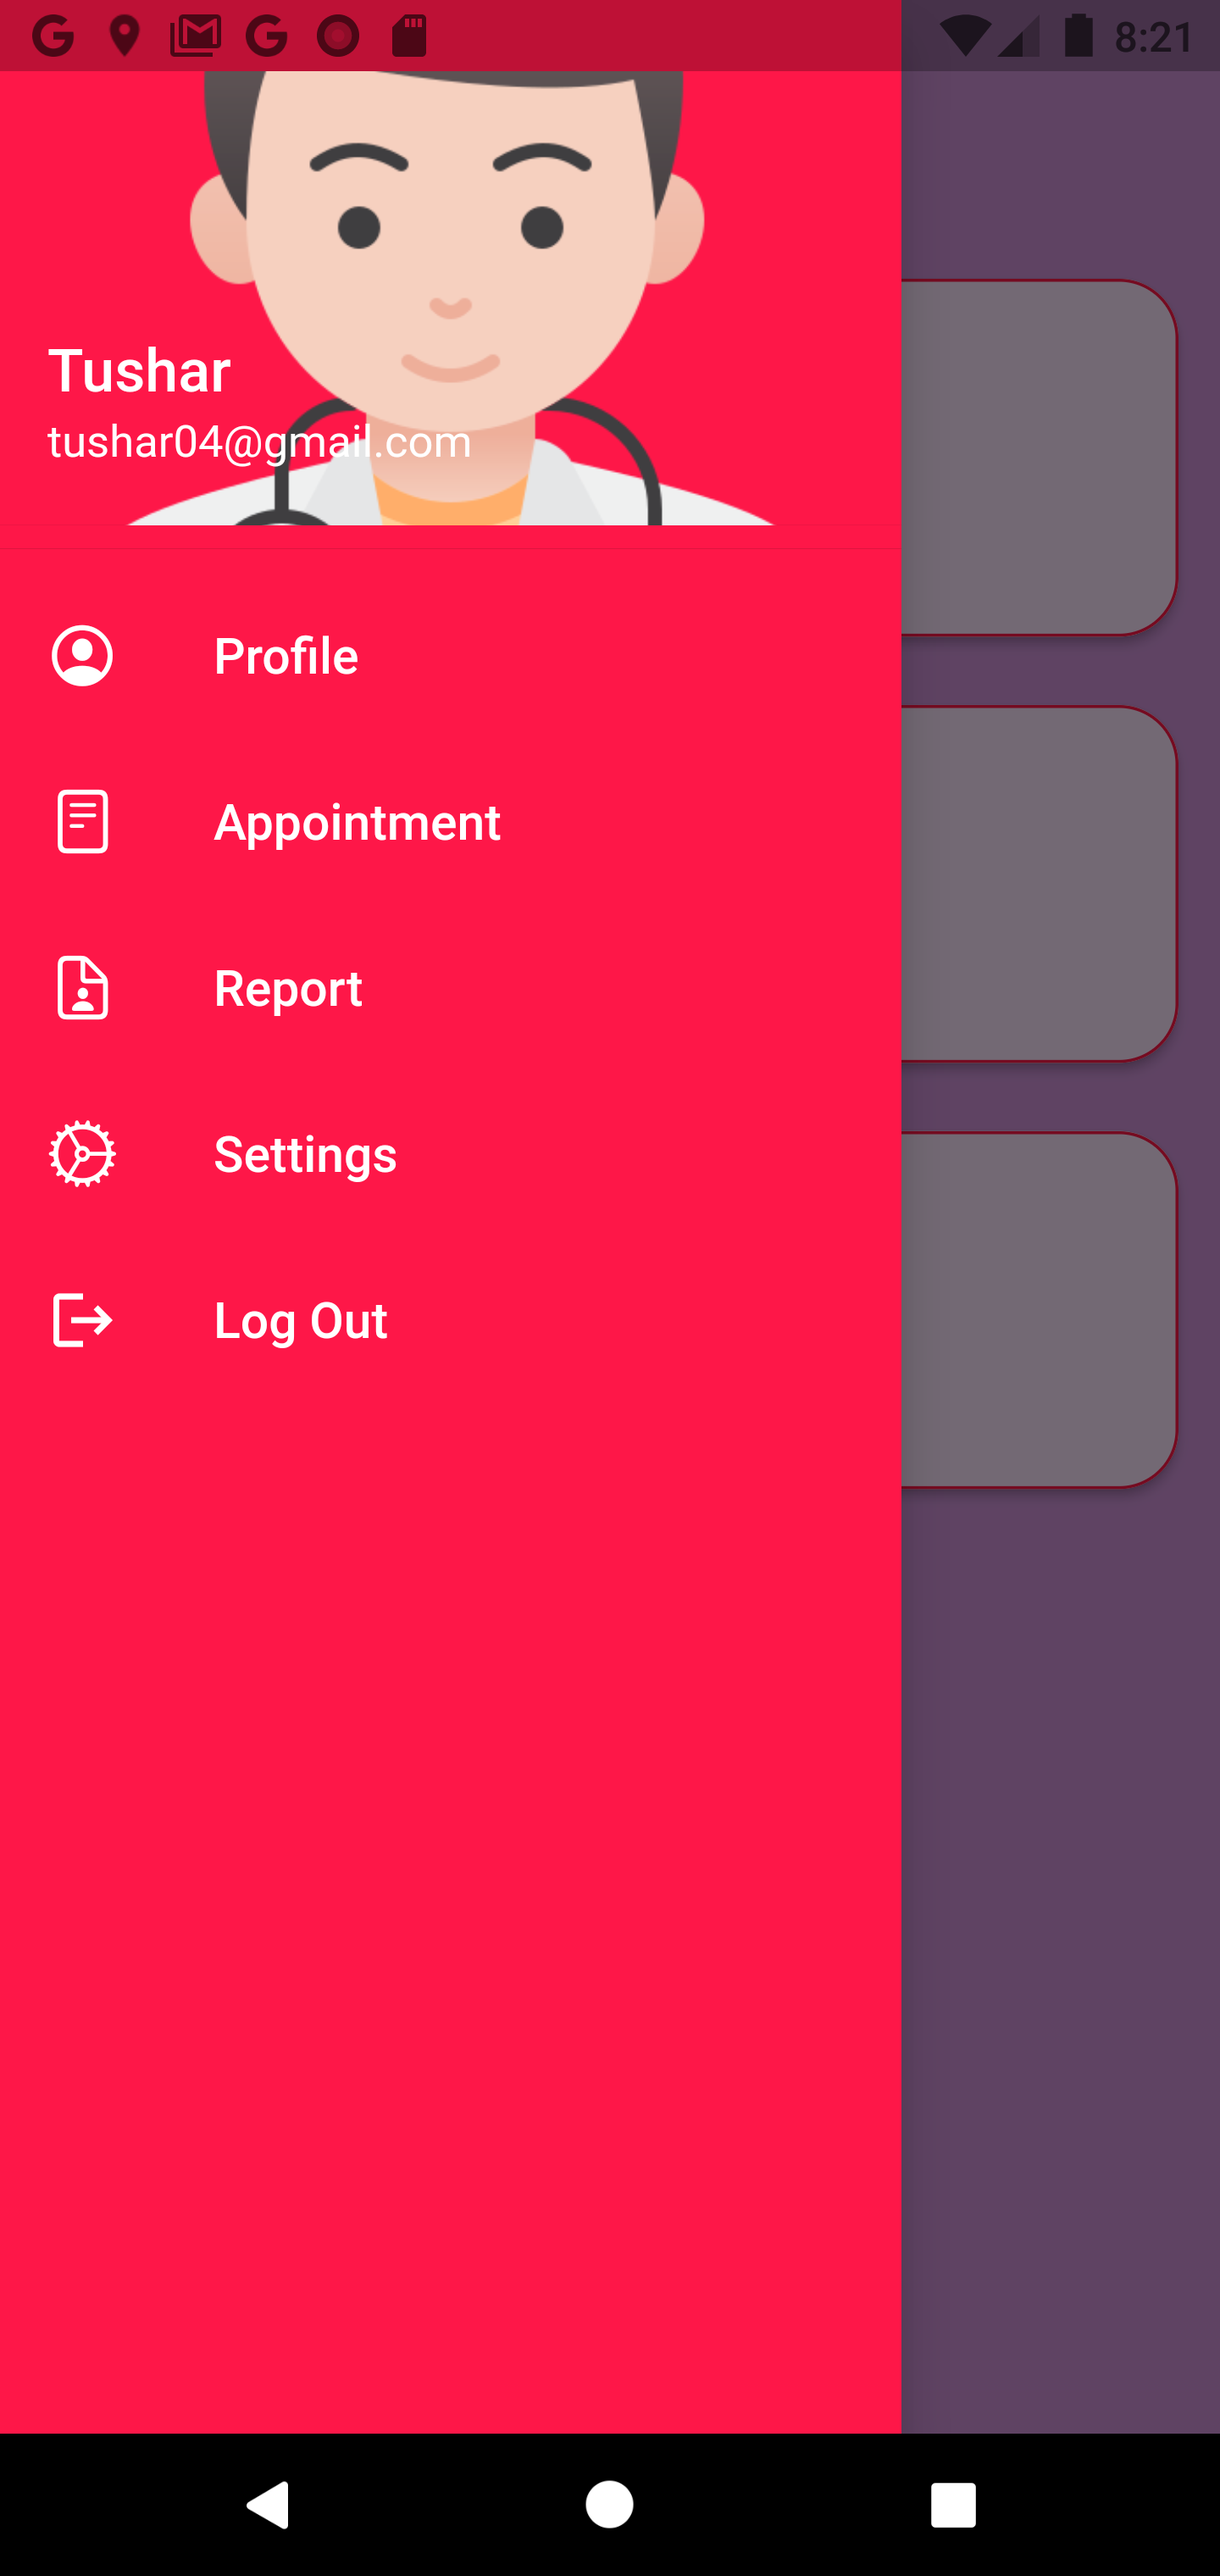
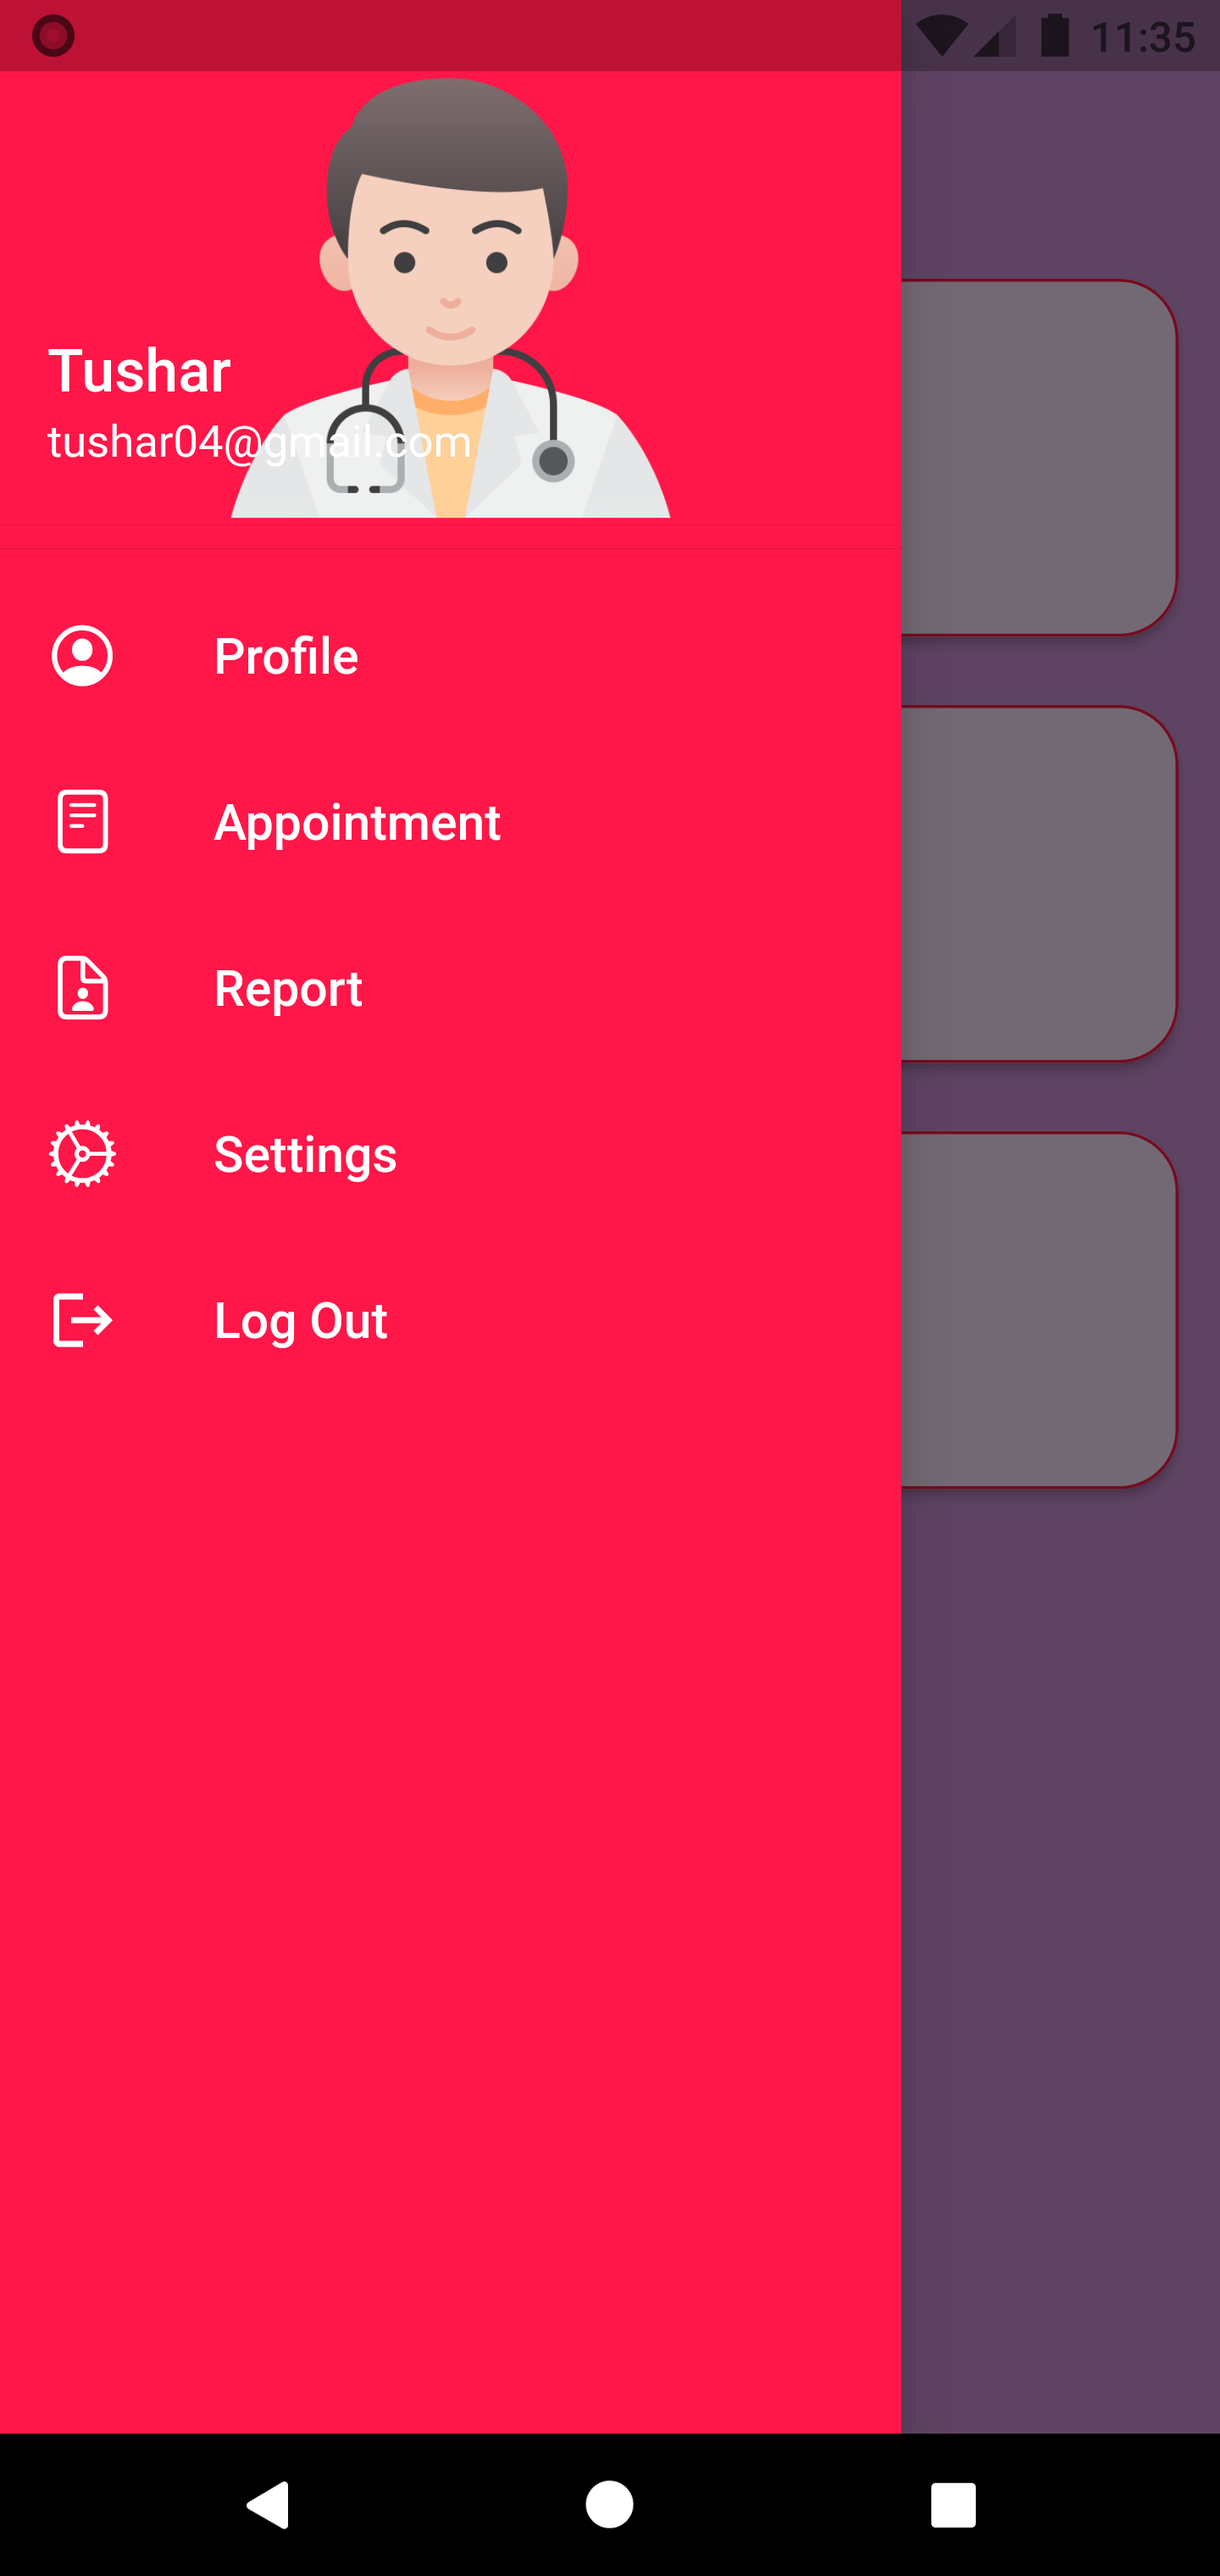
Screenshots

Changed region(s): [[0.0938, 0.0, 0.625, 0.2188], [0.75, 0.0, 0.9375, 0.0312], [0.0312, 0.0, 0.0625, 0.0312]]

diff --git a/lib/widgets/drawer.dart b/lib/widgets/drawer.dart
@@ -221,7 +221,7 @@ class _MyDrawerState extends State<MyDrawer> {
                         decoration: BoxDecoration(color: Color.fromRGBO(254, 23, 72, 1),
                             image: DecorationImage(
                                 image: AssetImage("Assets/images/doctor.png"),
-                                fit: BoxFit.cover),
+                                fit: BoxFit.fitHeight),
                         ),
                         accountName: Text(
                           snapshot.data!['name'],
@@ -231,11 +231,14 @@ class _MyDrawerState extends State<MyDrawer> {
                           snapshot.data!['email'],
                           style: TextStyle(fontSize: 15, color: Colors.white),
                         ),
+                        // currentAccountPictureSize: Size.square(75),
                         // currentAccountPicture: CircleAvatar(
-                          // radius: 10,
-                          //   backgroundImage: DecorationImage(
-                          //       image: AssetImage("Assets/images/doctor.png"),
-                          //       fit: BoxFit.cover),
+                        //   radius: 20,
+                        //     backgroundImage:
+                        //     NetworkImage("https://github.com/Tushar-Shirbhate/Hospital-App/blob/main/Assets/images/doctor.png")
+                            // backgroundImage: DecorationImage(
+                            //     image: AssetImage("Assets/images/doctor.png"),
+                            //     fit: BoxFit.cover),
                           // backgroundImage: NetworkImage(
                           //   storage
                           //       .downloadURL('Profile_pic.jpg')
